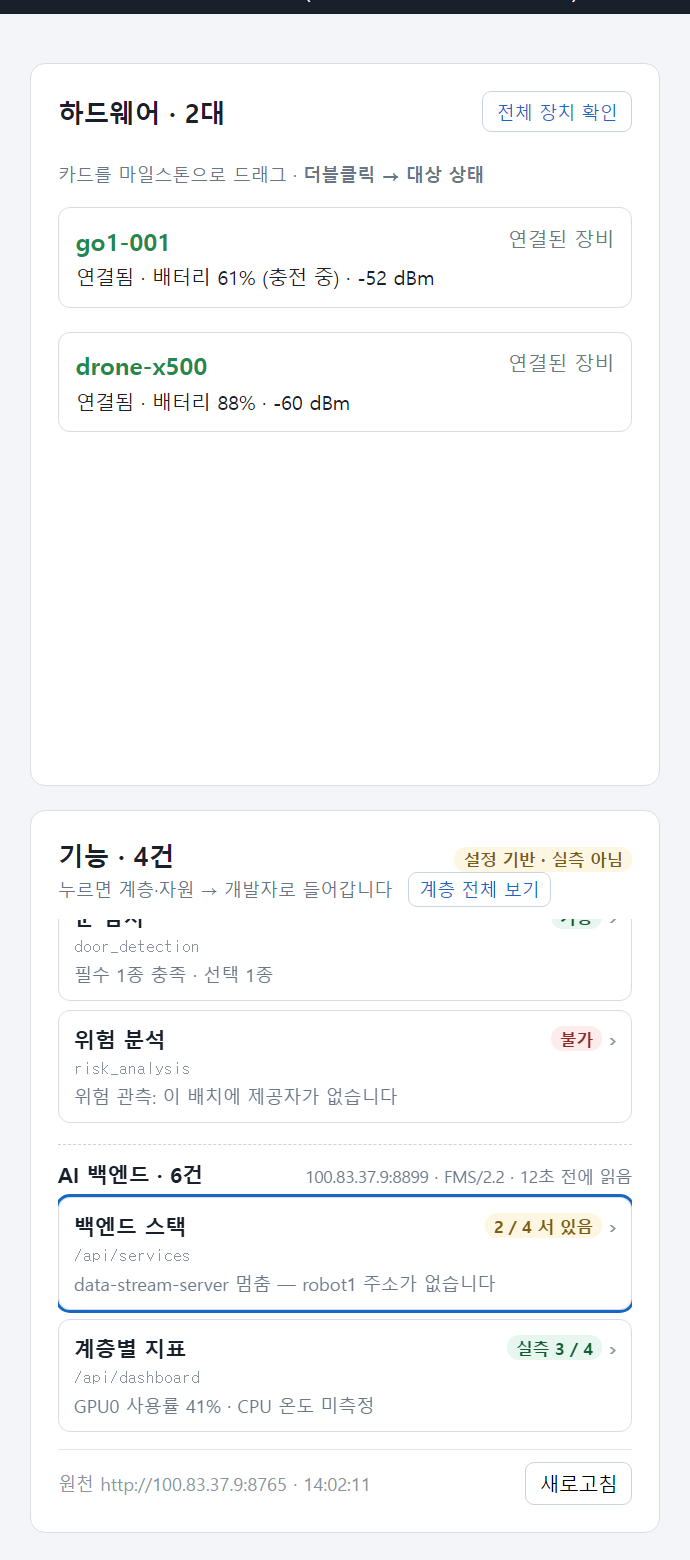
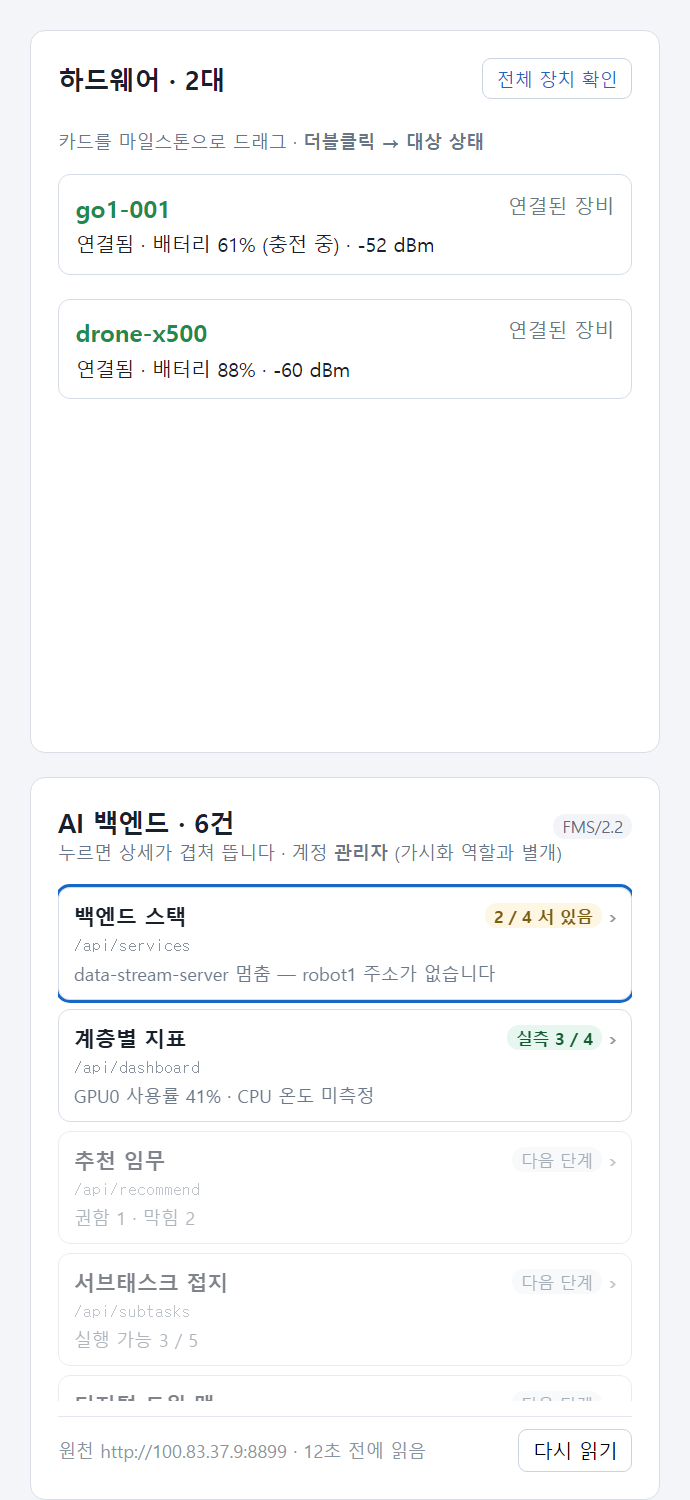
문서 — AI 백엔드 인계 회신 고침: 「기능」 판 자리를 AI 백엔드 판으로 대체 · 8765 는 쓰지 않음 · 시안 다시 그림
- 회신 §0 · §2 · §2-1(신설) · §3 · §5(신설): 쓰지 않는 「기능」 판을 통째로 바꾼다, 붙는 곳은 8899 하나, 옛 판 코드는 당분간 남긴다, 시안 안내와 지어낸 값
- 시안 1: 판 전체를 AI 백엔드 여섯 줄로 · 시안 2~4: 이동 경로에서 「기능」 단계를 빼고 상단 표시줄 제거

diff --git a/documents/협의/AI백엔드인계_회신_VZ_261123.md b/documents/협의/AI백엔드인계_회신_VZ_261123.md
@@ -8,8 +8,10 @@
 
 - 인계 문서와 패치 잘 받았습니다. 패치가 지금 저희 헤드(`khw_VZ` `3b0e972`)에 충돌 없이 붙는 것도 확인했습니다.
 - 다만 **주소만 바꾸는 방식은 쓰지 않을 예정입니다.** 그쪽 백엔드 주소는 저희 게이트웨이와 다른 칸에 둘 계획입니다(§1).
-- 패치는 그대로 적용하지 않고, **하드웨어 카드 아래 「기능」 판으로 옮겨서** 붙일 예정입니다(§2).
-- 확인 부탁드릴 것이 세 가지 있습니다(§3).
+- 패치는 그대로 적용하지 않고, 하드웨어 카드 아래 지금 쓰지 않는 **「기능」 판 자리를 그쪽 기능으로 바꿔 채울** 예정입니다(§2).
+- 그래서 저희는 **8899 하나만** 씁니다. 8765(capability)는 쓰지 않을 예정입니다(§2-1).
+- 확인 부탁드릴 것이 하나 있습니다(§3).
+- 화면 시안 네 장을 같은 폴더에 두었습니다: `documents/협의/AI백엔드인계_시안_261123/`(§5).
 - 인계 문서 §7 의 요청 두 가지에 대한 답은 §4 에 적었습니다.
 
 아직 저희 쪽에서 구현하지 않았습니다. 아래는 **이렇게 할 예정이라는** 계획입니다.
@@ -44,7 +46,7 @@
 
 패치는 FMS 화면 여섯을 **뷰 노드**로 붙입니다(`viewNodes.tsx` · `axes.ts` · `verify-view-nodes.mjs`).
 
-저희는 이 기능들을 하드웨어 카드 아래 **「기능」 판**에 넣을 예정입니다. 그 판은 이미 그쪽 8765(capability)를 읽고 있어서 성격이 맞습니다. 「기능」 판은 탭 없이 "목록을 누르면 상세가 겹쳐 뜨는" 구조라서(저희 검사 `verify:no-tabs` 가 탭을 막습니다), 화면 배치는 저희가 다시 짤 예정입니다.
+저희 화면의 하드웨어 카드 아래에는 **「기능」 판**이 있는데, 지금은 쓰지 않는 자리입니다. 이 판을 **통째로 「AI 백엔드」 판으로 바꿀** 예정입니다. 판에는 그쪽 기능 여섯 줄이 서고, 한 줄을 누르면 상세가 겹쳐 뜹니다. 저희 화면은 탭을 쓰지 않는 규칙이라(저희 검사 `verify:no-tabs` 가 막습니다), 화면 배치는 저희가 다시 짤 예정입니다.
 
 | 패치의 부분 | 할 예정인 것 |
 |---|---|
@@ -56,13 +58,19 @@
 
 **순서:** 스택 켜고 끄기(`fms-stack`)와 계층 지표(`fms-tiers`)를 먼저 붙이고, 나머지 넷(`fms-twin` · `fms-recommend` · `fms-subtasks` · `fms-deployment`)은 그다음에 할 예정입니다.
 
+### 2-1. 8765(capability)는 쓰지 않을 예정입니다
+
+지금의 「기능」 판은 그쪽 8765(`tools/status_ui`)를 읽던 자리입니다. 그 판을 FMS 판으로 바꾸면 **저희가 그쪽에 붙는 곳은 8899 하나**가 됩니다.
+
+그쪽 `tools/backend.sh` 에는 "8765 는 가시화 「기능」 카드의 원천"이라고 적혀 있습니다. 저희 때문에 8765 를 띄워 둘 필요는 없어집니다. 그쪽에서 다른 이유로 쓰신다면 그대로 두셔도 됩니다.
+
+옛 「기능」 판 코드는 FMS 판이 자리 잡을 때까지 저희 쪽에 당분간 남겨 둘 예정입니다.
+
 ---
 
 ## 3. 확인 부탁드립니다
 
-1. **8899 와 8765 는 늘 같은 기계에서 함께 뜨나요?** 그렇다면 「AI 백엔드」 주소 칸 하나에 두 포트를 묶을 예정입니다. 따로 뜰 수 있으면 칸을 둘로 두겠습니다.
-2. **8765 도 다른 출처(CORS)와 Tailscale 주소에서 열려 있나요?** 8899 는 실측 표가 있었는데 8765 는 찾지 못했습니다.
-3. **계정은 어떻게 보는 게 좋을까요?** 스택 켜기에는 그쪽 로그인(Bearer · `may_operate_stack`)이 필요한데, 저희 앱에도 따로 역할이 있습니다. 저희는 화면에 "AI 백엔드 계정: ○○" 처럼 **따로 표시할 예정**입니다. 두 계정을 하나로 맞출 계획이 있으시면 알려 주세요.
+**계정은 어떻게 보는 게 좋을까요?** 스택 켜기에는 그쪽 로그인(Bearer · `may_operate_stack`)이 필요한데, 저희 앱에도 따로 역할이 있습니다. 저희는 화면에 "AI 백엔드 계정: ○○" 처럼 **따로 표시할 예정**입니다(시안 2 · 3). 두 계정을 하나로 맞출 계획이 있으시면 알려 주세요.
 
 ---
 
@@ -78,3 +86,18 @@
 - 짚으신 `plans.ts:49` 는 주석이라 **화면에는 뜨지 않습니다.** 화면에 뜨는 것은 게이트웨이 문구 `'AI 계획 생성기 (AI-D-01)'` 같은 자리입니다.
 - 저희는 번호를 새 번호로 바꾸기보다, **화면 문구에서 요구사항 ID 를 아예 뺄 예정입니다.** 운영자에게는 의미 없는 번호라서요.
 - 정리가 끝나면 다시 알려 드리겠습니다.
+
+---
+
+## 5. 화면 시안
+
+`documents/협의/AI백엔드인계_시안_261123/` 에 네 장이 있습니다. 저희 앱의 실제 스타일과 패치의 `fms.css` 로 그린 **시안**이고, 아직 구현한 화면은 아닙니다.
+
+| 파일 | 무엇 |
+|---|---|
+| `1_panel.png` | 하드웨어 카드 아래 「기능」 판 자리가 「AI 백엔드」 판으로 바뀐 모습 |
+| `2_stack.png` | 「백엔드 스택」 상세 — AI 백엔드 계정으로 들어온 상태 |
+| `3_stack_signin.png` | 같은 상세 — 들어오기 전(볼 수는 있고 단추만 잠김) |
+| `4_tiers.png` | 「계층별 지표」 상세 |
+
+값은 인계 문서의 예시를 따랐지만 **지어낸 것도 있습니다**: 스택의 넷째 단위 `vision-infer`, redis 포트 6379, 계층 지표의 가속기·서비스 목록과 「지연 p95」 열. 실제 열은 `/api/dashboard` 응답 모양에 맞출 예정입니다.
